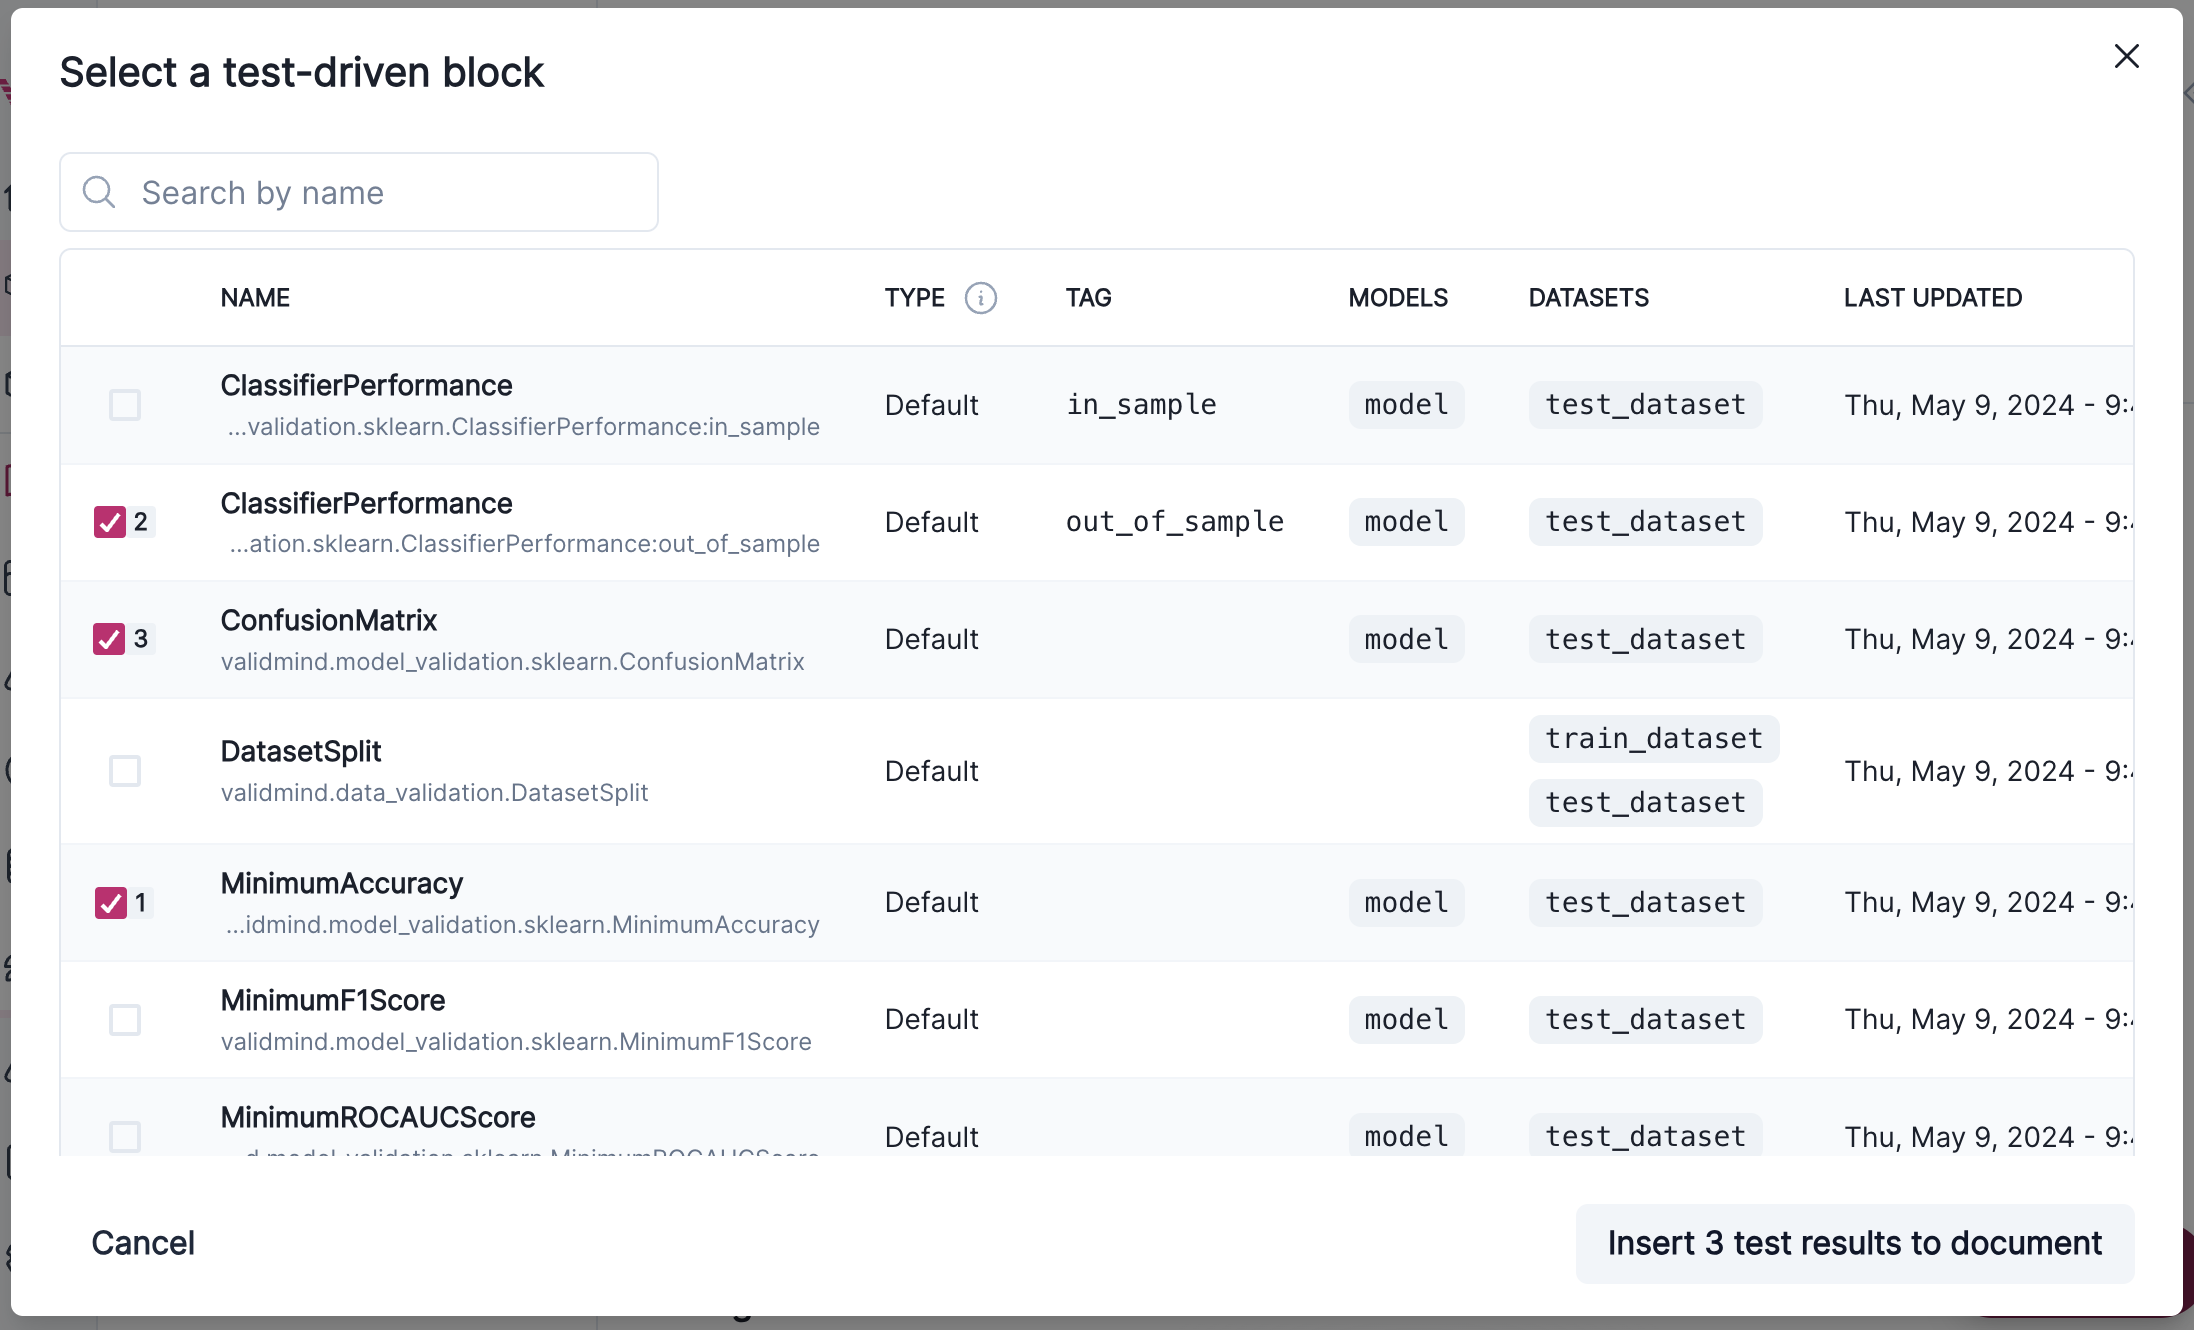
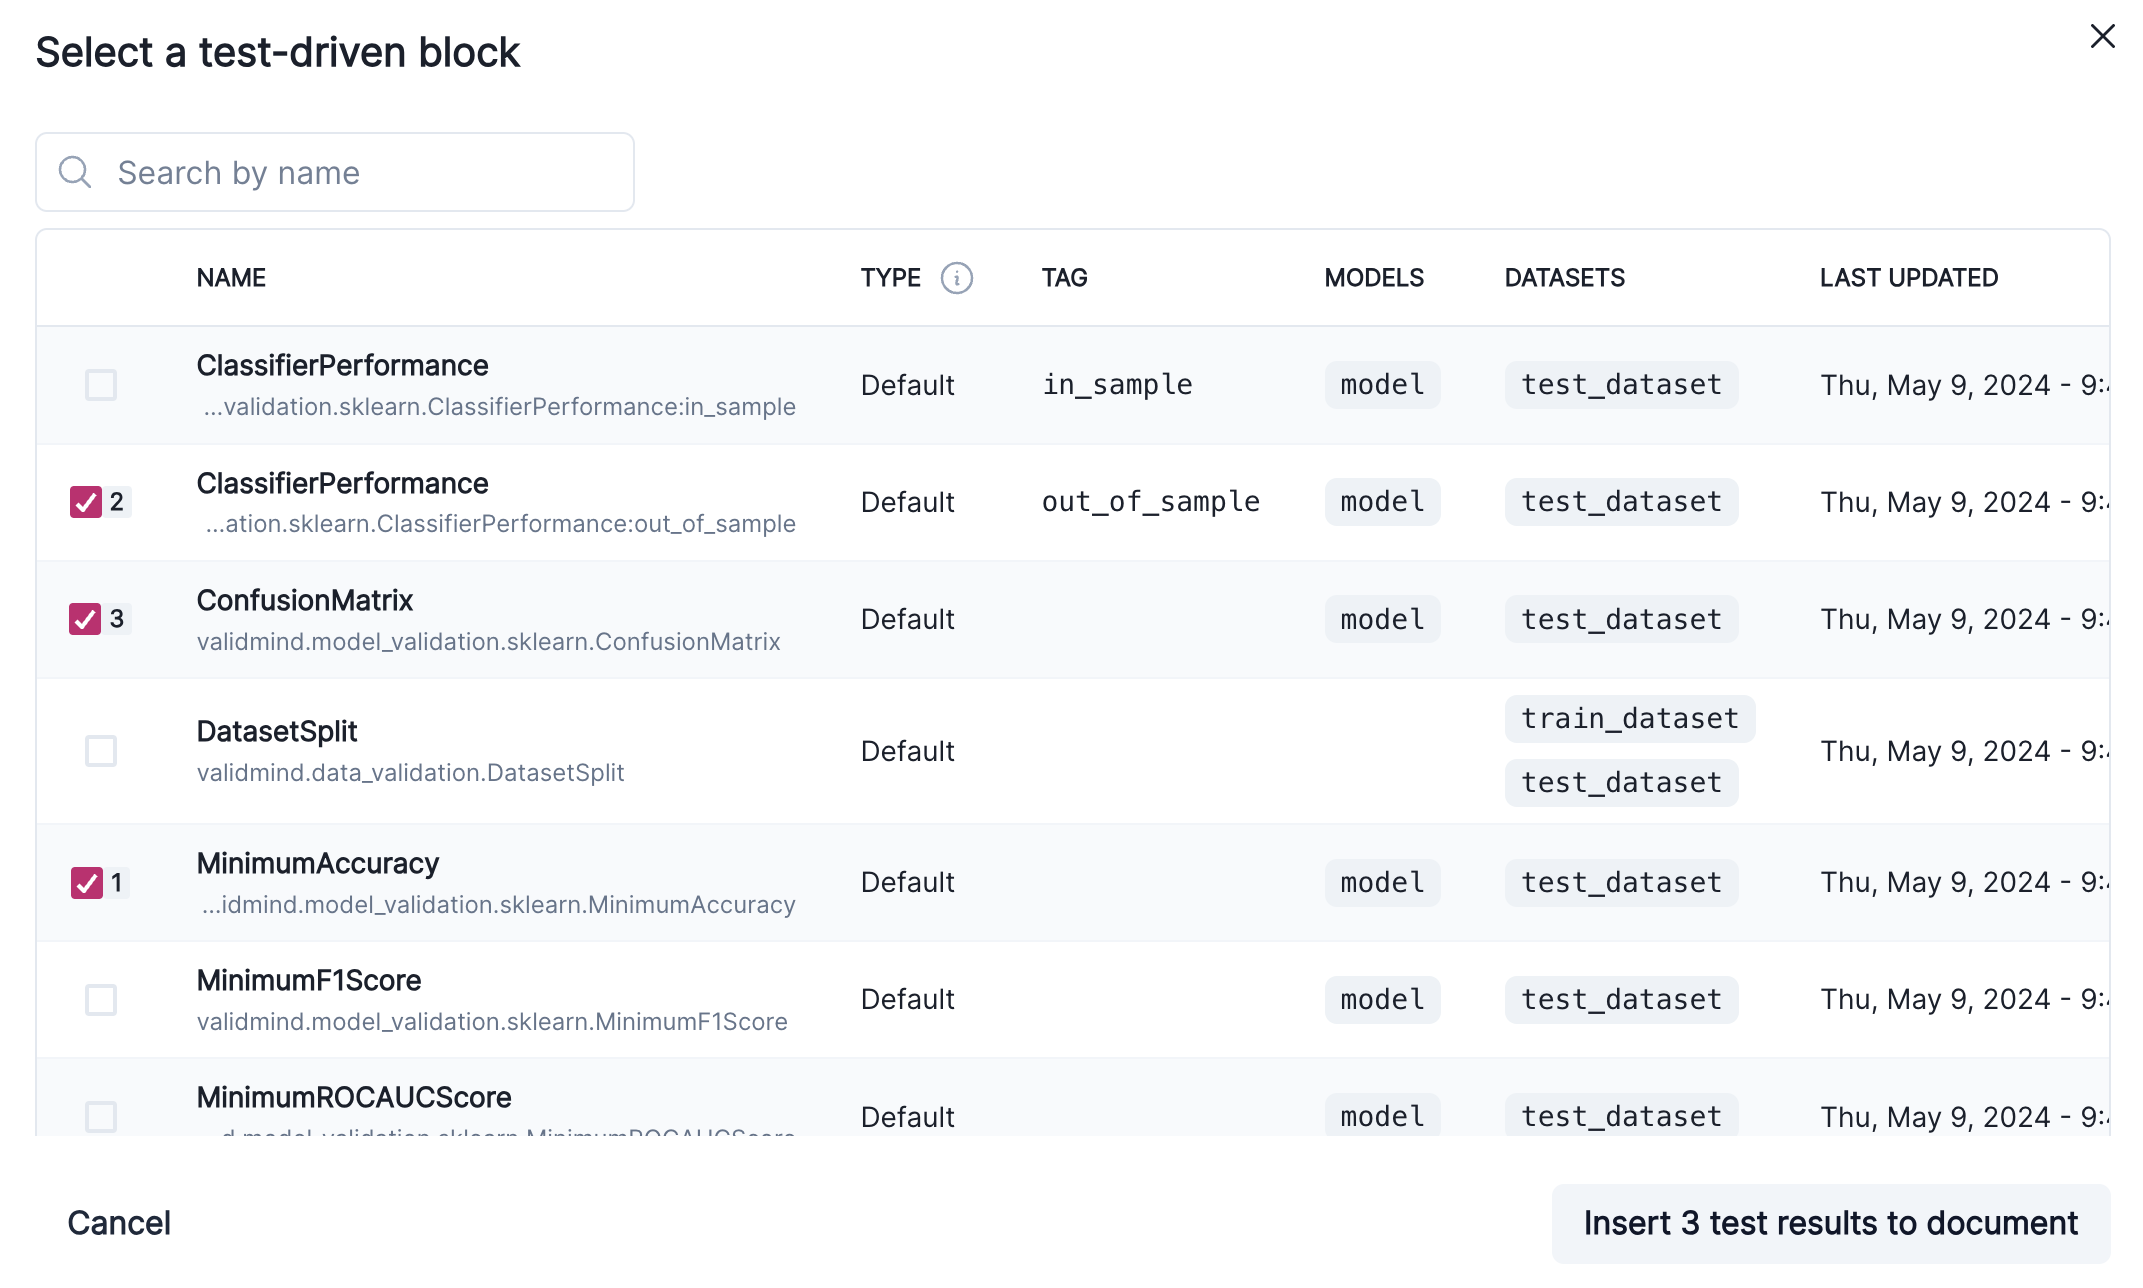
clean screenshot, alt text, wording, rephrasing for clarity

diff --git a/site/_site/guide/work-with-content-blocks.html b/site/_site/guide/work-with-content-blocks.html
@@ -6,7 +6,7 @@
 
 <meta name="viewport" content="width=device-width, initial-scale=1.0, user-scalable=yes">
 
-<meta name="dcterms.date" content="2024-06-14">
+<meta name="dcterms.date" content="2024-06-18">
 
 <title>ValidMind - Work with content blocks</title>
 <style>
@@ -533,7 +533,7 @@ cookieconsent.run({
     <div>
     <div class="quarto-title-meta-heading">Published</div>
     <div class="quarto-title-meta-contents">
-      <p class="date">June 14, 2024</p>
+      <p class="date">June 18, 2024</p>
     </div>
   </div>
   
@@ -583,14 +583,14 @@ Can be added to display one of the supported test results collected by the devel
 <li><strong>Simple text block</strong>: Adds a new section with a blank content block. After the new content block has been added, click <i class="fa-solid fa-pencil" aria-label="pencil"></i> to edit the contents of the section like any other.</li>
 <li><strong>Test-driven block</strong>: Adds a new section with test results.</li>
 </ul></li>
-<li><p>For test-driven blocks, a menu containing available tests will appear:</p>
-<p><img src="test-driven-block-menu.png" class="img-fluid" style="width:85.0%"></p>
+<li><p>For test-driven blocks, a menu containing the available tests appears. Select tests using one of these methods::</p>
+<p><img src="test-driven-block-menu.png" class="img-fluid" style="width:85.0%" alt="A screenshot showing several test-driven blocks that have been selected for insertion into the model documentation."></p>
 <ul>
-<li>Select tests using the checkboxes on the left.</li>
+<li>Select the tests to insert into the model documentation from the list of available tests.</li>
 <li>Search by name using <strong><i class="fa-solid fa-magnifying-glass" aria-label="magnifying-glass"></i> Search</strong> on the top-left.</li>
-<li>Click on a test to preview it. By default, selected tests are previewed.</li>
-</ul></li>
-<li><p>Click <strong>Insert test result to document</strong> when you are ready.</p></li>
+</ul>
+<p>To preview what is included in a test, select it. By default, selected tests are previewed.</p></li>
+<li><p>Click <strong>Insert <em>n</em> test results to document</strong> when you are ready.</p></li>
 </ol>
 <p>After you have completed these steps, the new content block becomes a part of your model documentation.</p>
 <!--- TO DO We might need to revisit terminology: we talk about "block", "section", and "module", but they all seem to be names for very similar things.--->

diff --git a/site/_site/guide/preparing-validation-reports.html b/site/_site/guide/preparing-validation-reports.html
@@ -721,7 +721,7 @@ To provide an unbiased starting point that enables more efficient discussions be
 </div>
 </a>
 </div>
-<div class="g-col-1" data-index="3" data-listing-date-sort="1718391830000" data-listing-file-modified-sort="1718391830211" data-listing-date-modified-sort="NaN" data-listing-reading-time-sort="4" data-listing-word-count-sort="715">
+<div class="g-col-1" data-index="3" data-listing-date-sort="1718731245000" data-listing-file-modified-sort="1718731245842" data-listing-date-modified-sort="NaN" data-listing-reading-time-sort="4" data-listing-word-count-sort="748">
 <a href="../guide/work-with-content-blocks.html" class="quarto-grid-link">
 <div class="quarto-grid-item card h-100 card-left">
 <div class="card-body post-contents">

diff --git a/site/_site/guide/working-with-model-documentation.html b/site/_site/guide/working-with-model-documentation.html
@@ -731,7 +731,7 @@ View the guidelines for model documentation associated with a template to ensure
 </div>
 </a>
 </div>
-<div class="g-col-1" data-index="1" data-listing-date-sort="1718391830000" data-listing-file-modified-sort="1718391830211" data-listing-date-modified-sort="NaN" data-listing-reading-time-sort="4" data-listing-word-count-sort="715">
+<div class="g-col-1" data-index="1" data-listing-date-sort="1718731245000" data-listing-file-modified-sort="1718731245842" data-listing-date-modified-sort="NaN" data-listing-reading-time-sort="4" data-listing-word-count-sort="748">
 <a href="../guide/work-with-content-blocks.html" class="quarto-grid-link">
 <div class="quarto-grid-item card h-100 card-left">
 <div class="card-body post-contents">
